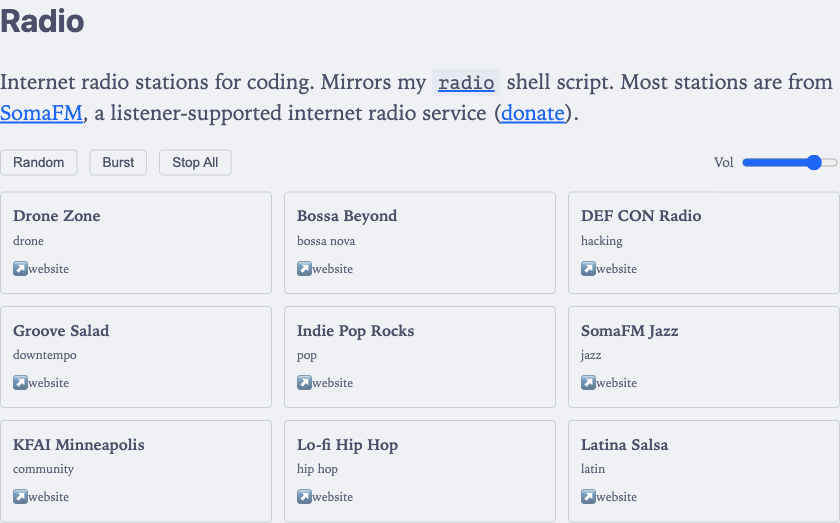
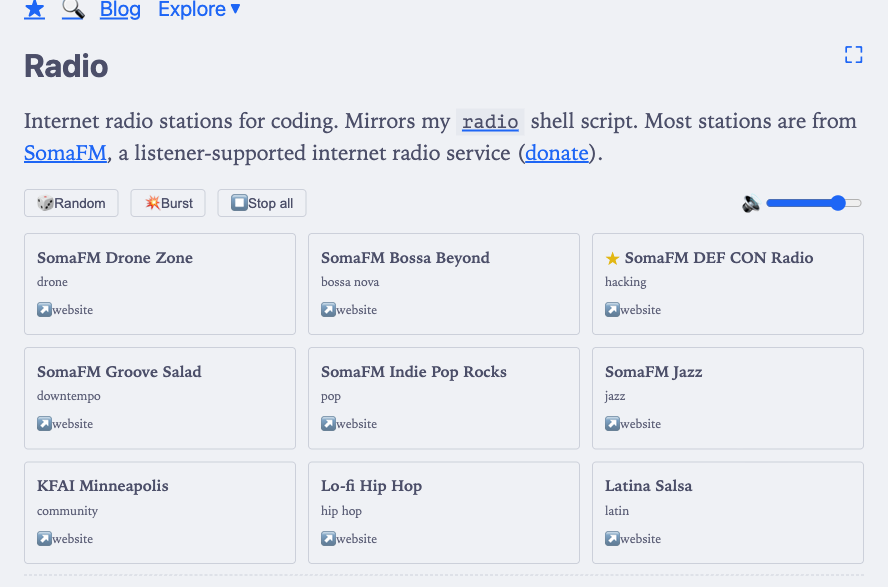
update screenshot, somafm

diff --git a/layouts/_default/radio.html b/layouts/_default/radio.html
@@ -158,11 +158,11 @@
 (function() {
   const stations = [
     // keep-sorted start
-    { id: 'ambient', name: 'Drone Zone', genre: 'drone', url: 'https://ice4.somafm.com/dronezone-64-aac', homepage: 'https://somafm.com/dronezone/' },
-    { id: 'bossa', name: 'Bossa Beyond', genre: 'bossa nova', url: 'https://ice4.somafm.com/bossa-64-aac', homepage: 'https://somafm.com/bossa/' },
-    { id: 'defcon', name: 'DEF CON Radio', genre: 'hacking', url: 'https://ice4.somafm.com/defcon-64-aac', homepage: 'https://somafm.com/defcon/', starred: true },
-    { id: 'groovesalad', name: 'Groove Salad', genre: 'downtempo', url: 'https://ice4.somafm.com/groovesalad-64-aac', homepage: 'https://somafm.com/groovesalad/' },
-    { id: 'indie', name: 'Indie Pop Rocks', genre: 'pop', url: 'https://ice4.somafm.com/indiepop-64-aac', homepage: 'https://somafm.com/indiepop/' },
+    { id: 'ambient', name: 'SomaFM Drone Zone', genre: 'drone', url: 'https://ice4.somafm.com/dronezone-64-aac', homepage: 'https://somafm.com/dronezone/' },
+    { id: 'bossa', name: 'SomaFM Bossa Beyond', genre: 'bossa nova', url: 'https://ice4.somafm.com/bossa-64-aac', homepage: 'https://somafm.com/bossa/' },
+    { id: 'defcon', name: 'SomaFM DEF CON Radio', genre: 'hacking', url: 'https://ice4.somafm.com/defcon-64-aac', homepage: 'https://somafm.com/defcon/', starred: true },
+    { id: 'groovesalad', name: 'SomaFM Groove Salad', genre: 'downtempo', url: 'https://ice4.somafm.com/groovesalad-64-aac', homepage: 'https://somafm.com/groovesalad/' },
+    { id: 'indie', name: 'SomaFM Indie Pop Rocks', genre: 'pop', url: 'https://ice4.somafm.com/indiepop-64-aac', homepage: 'https://somafm.com/indiepop/' },
     { id: 'jazz', name: 'SomaFM Jazz', genre: 'jazz', url: 'https://ice4.somafm.com/live-64-aac', homepage: 'https://somafm.com/live/' },
     { id: 'kfai', name: 'KFAI Minneapolis', genre: 'community', url: 'https://kfai.broadcasttool.stream/kfai-1', homepage: 'https://www.kfai.org/' },
     { id: 'lofi', name: 'Lo-fi Hip Hop', genre: 'hip hop', url: 'https://live.hunter.fm/lofi_low', homepage: 'https://hunter.fm/' },
